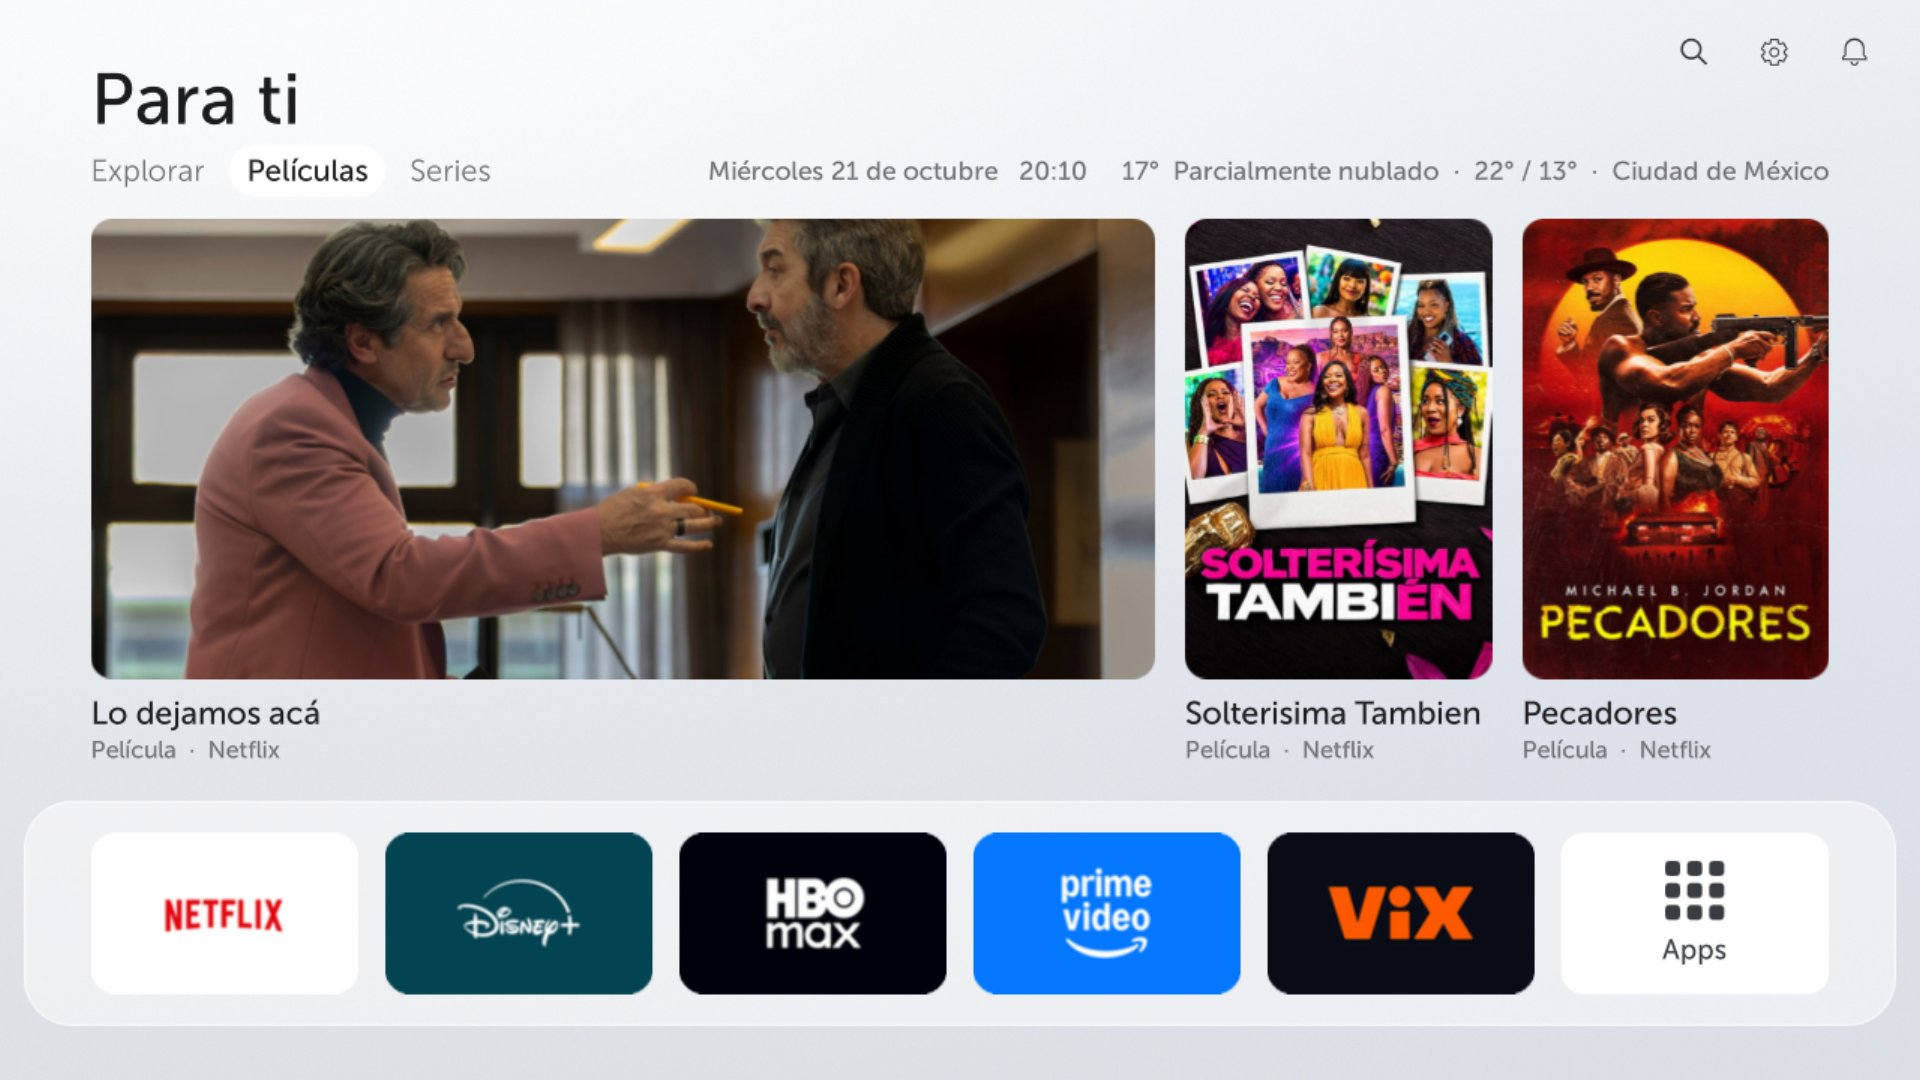
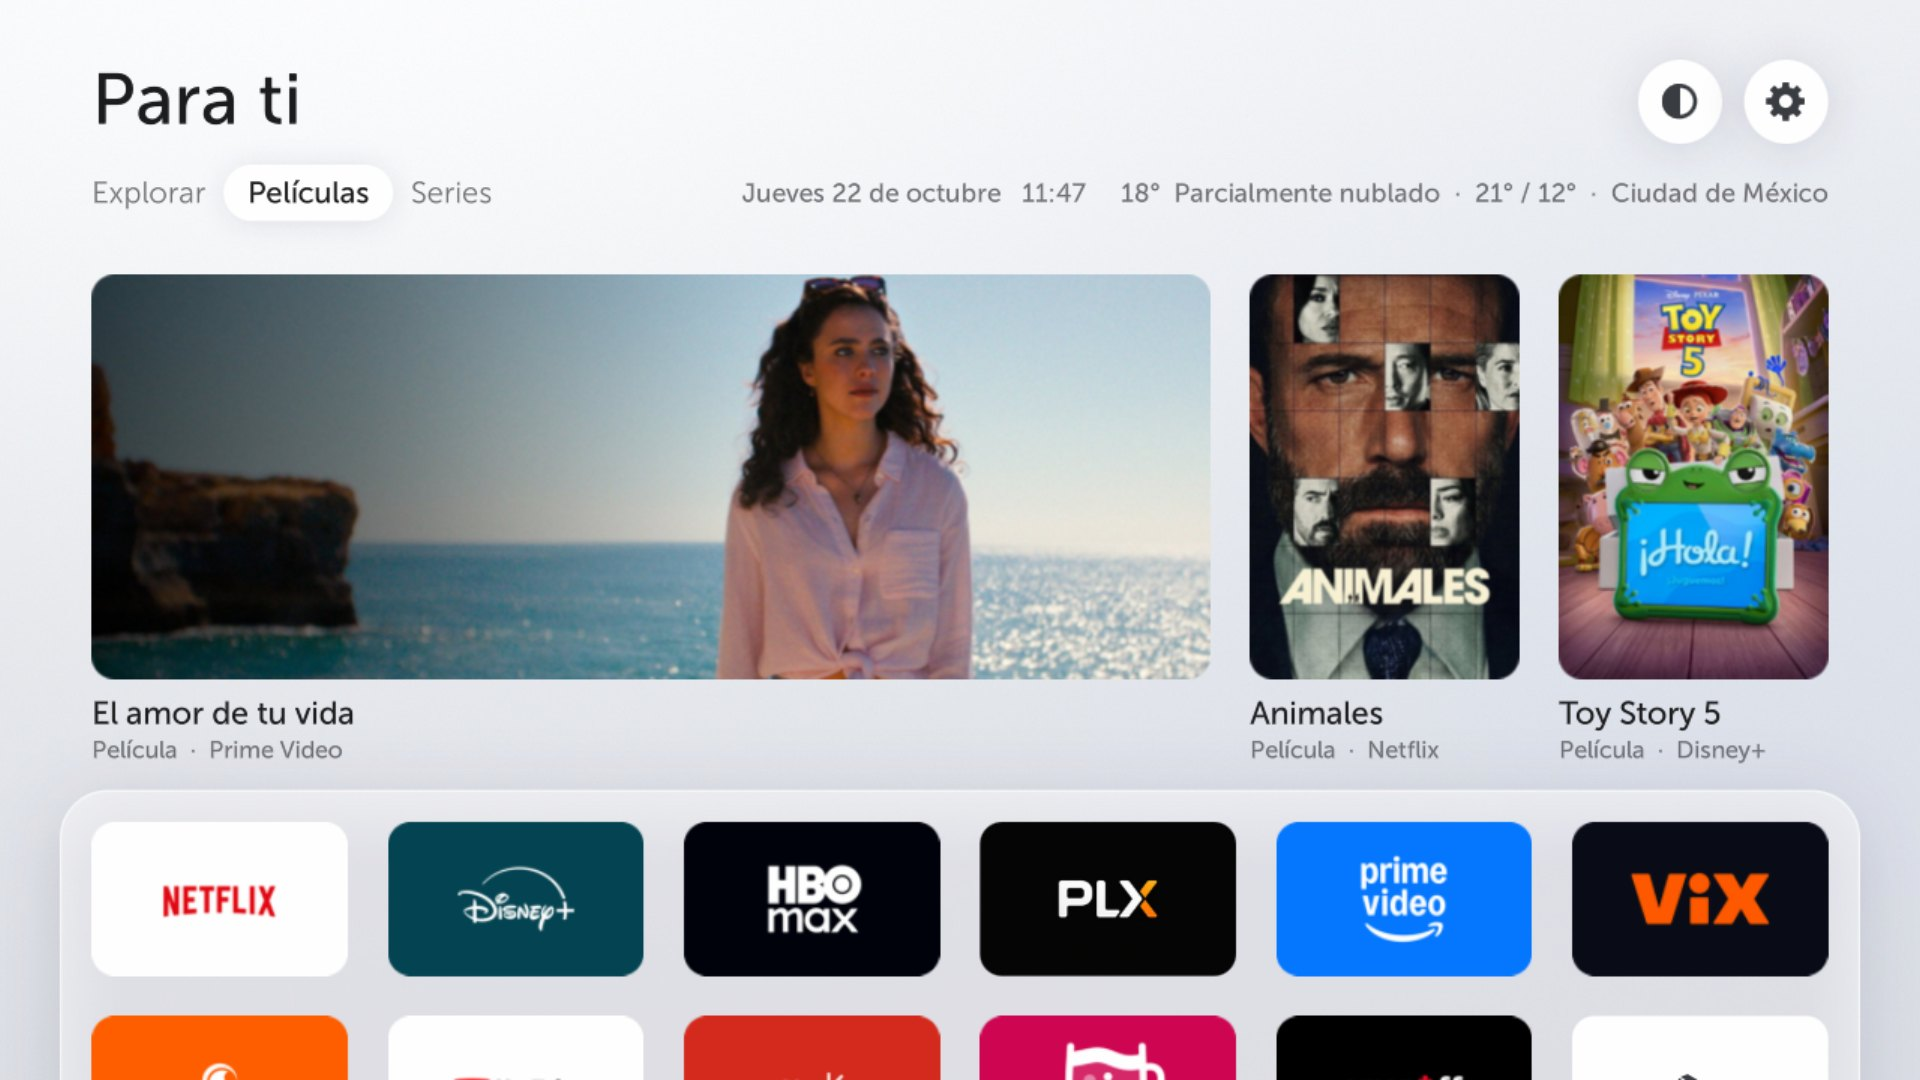
Capturas nuevas del home y web actualizada
- docs/img: home, Películas, título seleccionado y todas las apps con el diseño actual (sin
  íconos de LG ni pantalla de Apps aparte); tiles.jpg con los logos en alta resolución;
  pantalla de carga real de Netflix en 1920x1080. Nuevas: despues-oscuro.jpg (tema oscuro) y
  despues-panel.jpg (panel rápido). Clima de Ciudad de México en todas.
- Web y README: las dos capturas nuevas, la pantalla de carga por app y "6 apps fijadas".
- og.jpg y og-es.jpg regenerados con el home nuevo; site/es generado con sitio-es.py.

diff --git a/site/es/index.html b/site/es/index.html
@@ -148,12 +148,20 @@
           <figcaption><b>Todas tus apps, a un scroll.</b> Presiona ↓ desde la fila de apps. Atrás te regresa al home.</figcaption>
         </figure>
         <figure class="shot" data-reveal>
-          <img src="../img/tiles.jpg" width="1320" height="636" alt="Tiles rectangulares generados a partir del ícono de cada app" loading="lazy">
-          <figcaption><b>Tiles hechos con tu TV.</b> Se generan con el ícono y el color de cada app.</figcaption>
+          <img src="../img/despues-oscuro.jpg" width="1920" height="1080" alt="El home de LGlow en modo oscuro" loading="lazy">
+          <figcaption><b>Claro, oscuro o automático.</b> El automático sigue el amanecer y el atardecer reales de tu ciudad.</figcaption>
         </figure>
         <figure class="shot" data-reveal>
-          <img src="../img/despues-carga.jpg" width="1280" height="720" alt="Una pantalla de carga clara con tres puntos" loading="lazy">
-          <figcaption><b>Una pantalla de carga más tranquila.</b> Clara y minimalista, en vez de los cubos grises de LG.</figcaption>
+          <img src="../img/despues-panel.jpg" width="1920" height="1080" alt="El panel de ajustes rápidos de LGlow sobre el home" loading="lazy">
+          <figcaption><b>Ajustes rápidos, renovados.</b> El botón de engranaje del control abre el panel de LGlow: modos de imagen y sonido, apagado automático, tema y entradas.</figcaption>
+        </figure>
+        <figure class="shot" data-reveal>
+          <img src="../img/tiles.jpg" width="1320" height="636" alt="Tiles rectangulares generados a partir del ícono de cada app" loading="lazy">
+          <figcaption><b>Tiles hechos con tu TV.</b> Se generan con el ícono y el color de cada app, en alta resolución.</figcaption>
+        </figure>
+        <figure class="shot" data-reveal>
+          <img src="../img/despues-carga.jpg" width="1920" height="1080" alt="Pantalla de carga de Netflix: su tile sobre un brillo suave de amanecer, con tres puntos" loading="lazy">
+          <figcaption><b>Una pantalla de carga para cada app.</b> Netflix, Prime Video y YouTube muestran su propio tile en vez de los cubos grises de LG.</figcaption>
         </figure>
       </div>
     </section>

diff --git a/site/index.html b/site/index.html
@@ -153,12 +153,20 @@
           <figcaption><b>All your apps, one scroll away.</b> Press ↓ from the app row. Back takes you home.</figcaption>
         </figure>
         <figure class="shot" data-reveal>
-          <img src="img/tiles.jpg" width="1320" height="636" alt="Rectangular tiles generated from each app's icon" loading="lazy">
-          <figcaption><b>Tiles made from your TV.</b> Generated from each app's own icon and color.</figcaption>
+          <img src="img/despues-oscuro.jpg" width="1920" height="1080" alt="The LGlow home in dark mode" loading="lazy">
+          <figcaption><b>Light, dark or automatic.</b> Auto follows your city's real sunrise and sunset.</figcaption>
         </figure>
         <figure class="shot" data-reveal>
-          <img src="img/despues-carga.jpg" width="1280" height="720" alt="A light loading screen with three dots" loading="lazy">
-          <figcaption><b>A calmer loading screen.</b> Light and minimal instead of LG's grey cubes.</figcaption>
+          <img src="img/despues-panel.jpg" width="1920" height="1080" alt="LGlow's quick settings panel over the home" loading="lazy">
+          <figcaption><b>Quick settings, redone.</b> The remote's gear button opens LGlow's panel: picture and sound modes, sleep timer, theme and inputs.</figcaption>
+        </figure>
+        <figure class="shot" data-reveal>
+          <img src="img/tiles.jpg" width="1320" height="636" alt="Rectangular tiles generated from each app's icon" loading="lazy">
+          <figcaption><b>Tiles made from your TV.</b> Generated from each app's own icon and color, in high resolution.</figcaption>
+        </figure>
+        <figure class="shot" data-reveal>
+          <img src="img/despues-carga.jpg" width="1920" height="1080" alt="Netflix loading screen: its tile over a soft sunrise glow, with three dots" loading="lazy">
+          <figcaption><b>A loading screen for each app.</b> Netflix, Prime Video and YouTube get their own tile instead of LG's grey cubes.</figcaption>
         </figure>
       </div>
     </section>

diff --git a/tools/sitio-es.py b/tools/sitio-es.py
@@ -101,10 +101,15 @@ T = [
     ('<b>Movies &amp; Shows tabs.</b> Pick a title and it opens in the app that has it.', '<b>Pestañas Películas y Series.</b> Elige un título y se abre en la app donde está.'),
     ('src="img/despues-apps.jpg" width="1920" height="1080" alt="All apps, after scrolling down from the app row"', 'src="../img/despues-apps.jpg" width="1920" height="1080" alt="Todas las apps, después de bajar desde la fila"'),
     ('<b>All your apps, one scroll away.</b> Press ↓ from the app row. Back takes you home.', '<b>Todas tus apps, a un scroll.</b> Presiona ↓ desde la fila de apps. Atrás te regresa al home.'),
+    ('src="img/despues-oscuro.jpg" width="1920" height="1080" alt="The LGlow home in dark mode"', 'src="../img/despues-oscuro.jpg" width="1920" height="1080" alt="El home de LGlow en modo oscuro"'),
+    ("<b>Light, dark or automatic.</b> Auto follows your city's real sunrise and sunset.", '<b>Claro, oscuro o automático.</b> El automático sigue el amanecer y el atardecer reales de tu ciudad.'),
+    ('src="img/despues-panel.jpg" width="1920" height="1080" alt="LGlow\'s quick settings panel over the home"', 'src="../img/despues-panel.jpg" width="1920" height="1080" alt="El panel de ajustes rápidos de LGlow sobre el home"'),
+    ("<b>Quick settings, redone.</b> The remote's gear button opens LGlow's panel: picture and sound modes, sleep timer, theme and inputs.",
+     '<b>Ajustes rápidos, renovados.</b> El botón de engranaje del control abre el panel de LGlow: modos de imagen y sonido, apagado automático, tema y entradas.'),
     ('src="img/tiles.jpg" width="1320" height="636" alt="Rectangular tiles generated from each app\'s icon"', 'src="../img/tiles.jpg" width="1320" height="636" alt="Tiles rectangulares generados a partir del ícono de cada app"'),
-    ("<b>Tiles made from your TV.</b> Generated from each app's own icon and color.", '<b>Tiles hechos con tu TV.</b> Se generan con el ícono y el color de cada app.'),
-    ('src="img/despues-carga.jpg" width="1280" height="720" alt="A light loading screen with three dots"', 'src="../img/despues-carga.jpg" width="1280" height="720" alt="Una pantalla de carga clara con tres puntos"'),
-    ("<b>A calmer loading screen.</b> Light and minimal instead of LG's grey cubes.", '<b>Una pantalla de carga más tranquila.</b> Clara y minimalista, en vez de los cubos grises de LG.'),
+    ("<b>Tiles made from your TV.</b> Generated from each app's own icon and color, in high resolution.", '<b>Tiles hechos con tu TV.</b> Se generan con el ícono y el color de cada app, en alta resolución.'),
+    ('src="img/despues-carga.jpg" width="1920" height="1080" alt="Netflix loading screen: its tile over a soft sunrise glow, with three dots"', 'src="../img/despues-carga.jpg" width="1920" height="1080" alt="Pantalla de carga de Netflix: su tile sobre un brillo suave de amanecer, con tres puntos"'),
+    ("<b>A loading screen for each app.</b> Netflix, Prime Video and YouTube get their own tile instead of LG's grey cubes.", '<b>Una pantalla de carga para cada app.</b> Netflix, Prime Video y YouTube muestran su propio tile en vez de los cubos grises de LG.'),
 
     # Comparación
     ('<h2>An app on top, or the TV itself?</h2>', '<h2>¿Una app encima o la TV misma?</h2>'),

diff --git a/README.md b/README.md
@@ -22,12 +22,17 @@ Sin tocar las particiones del sistema: todo se monta encima y se quita con un co
 | Antes (home de LG) | Después |
 | --- | --- |
 | ![Home original de LG con banner y recomendaciones patrocinadas](docs/img/antes-home.jpg) | ![Home renovado: Para ti, clima y una fila de apps](docs/img/despues-home.jpg) |
-| Banner de LG, "Ir a Apps", fila de contenido promocionado, íconos chicos y todas las apps de sistema. | "Para ti" con lo que está en tendencia **en tus apps**, fecha, hora y clima, y tus 5 apps fijadas. |
+| Banner de LG, "Ir a Apps", fila de contenido promocionado, íconos chicos y todas las apps de sistema. | "Para ti" con lo que está en tendencia **en tus apps**, fecha, hora y clima, y tus 6 apps fijadas. |
 
 | Películas / Series | Todas las apps |
 | --- | --- |
-| ![Pestaña Películas con un título seleccionado](docs/img/despues-titulo.jpg) | ![Pantalla Apps con todas las apps](docs/img/despues-apps.jpg) |
+| ![Pestaña Películas con un título seleccionado](docs/img/despues-titulo.jpg) | ![Todas las apps, después de bajar desde la fila](docs/img/despues-apps.jpg) |
 | Pestañas **Explorar · Películas · Series**. OK en un título abre la app donde está. | Abajo de tu fila se asoma el resto: **↓ hace scroll** a todas tus apps. Atrás regresa. |
+
+| Tema oscuro | Panel rápido (engranaje) |
+| --- | --- |
+| ![El home en modo oscuro](docs/img/despues-oscuro.jpg) | ![Panel de ajustes rápidos de LGlow](docs/img/despues-panel.jpg) |
+| Claro, oscuro o **automático** con el amanecer y el atardecer de tu ciudad. | Modos de imagen y sonido, apagado automático, tema y entradas. También con el botón de engranaje del control. |
 
 <details>
 <summary>Más capturas: la barra vieja, los tiles y la pantalla de carga</summary>
@@ -36,9 +41,9 @@ Sin tocar las particiones del sistema: todo se monta encima y se quita con un co
 | --- | --- |
 | ![Barra de apps original](docs/img/antes-barra.jpg) | ![Tiles rectangulares por app](docs/img/tiles.jpg) |
 
-| Pantalla de carga genérica de LG | La nueva |
+| Pantalla de carga genérica de LG | La nueva, con el tile de cada app |
 | --- | --- |
-| ![Pantalla de carga gris con cubos](docs/img/antes-carga.jpg) | ![Pantalla de carga clara con tres puntos](docs/img/despues-carga.jpg) |
+| ![Pantalla de carga gris con cubos](docs/img/antes-carga.jpg) | ![Pantalla de carga de Netflix con su tile y tres puntos](docs/img/despues-carga.jpg) |
 
 </details>
 

diff --git a/README.en.md b/README.en.md
@@ -23,7 +23,11 @@ Step-by-step guides in English: [docs/en/](docs/en/01-root.md). Commands and fil
 
 | Movies / Shows tabs | All apps (scroll down) |
 | --- | --- |
-| ![Movies tab with a title selected](docs/img/despues-titulo.jpg) | ![All apps screen](docs/img/despues-apps.jpg) |
+| ![Movies tab with a title selected](docs/img/despues-titulo.jpg) | ![All apps, after scrolling down from the app row](docs/img/despues-apps.jpg) |
+
+| Dark theme | Quick panel (gear button) |
+| --- | --- |
+| ![The home in dark mode](docs/img/despues-oscuro.jpg) | ![LGlow's quick settings panel](docs/img/despues-panel.jpg) |
 
 ## What you get
 
